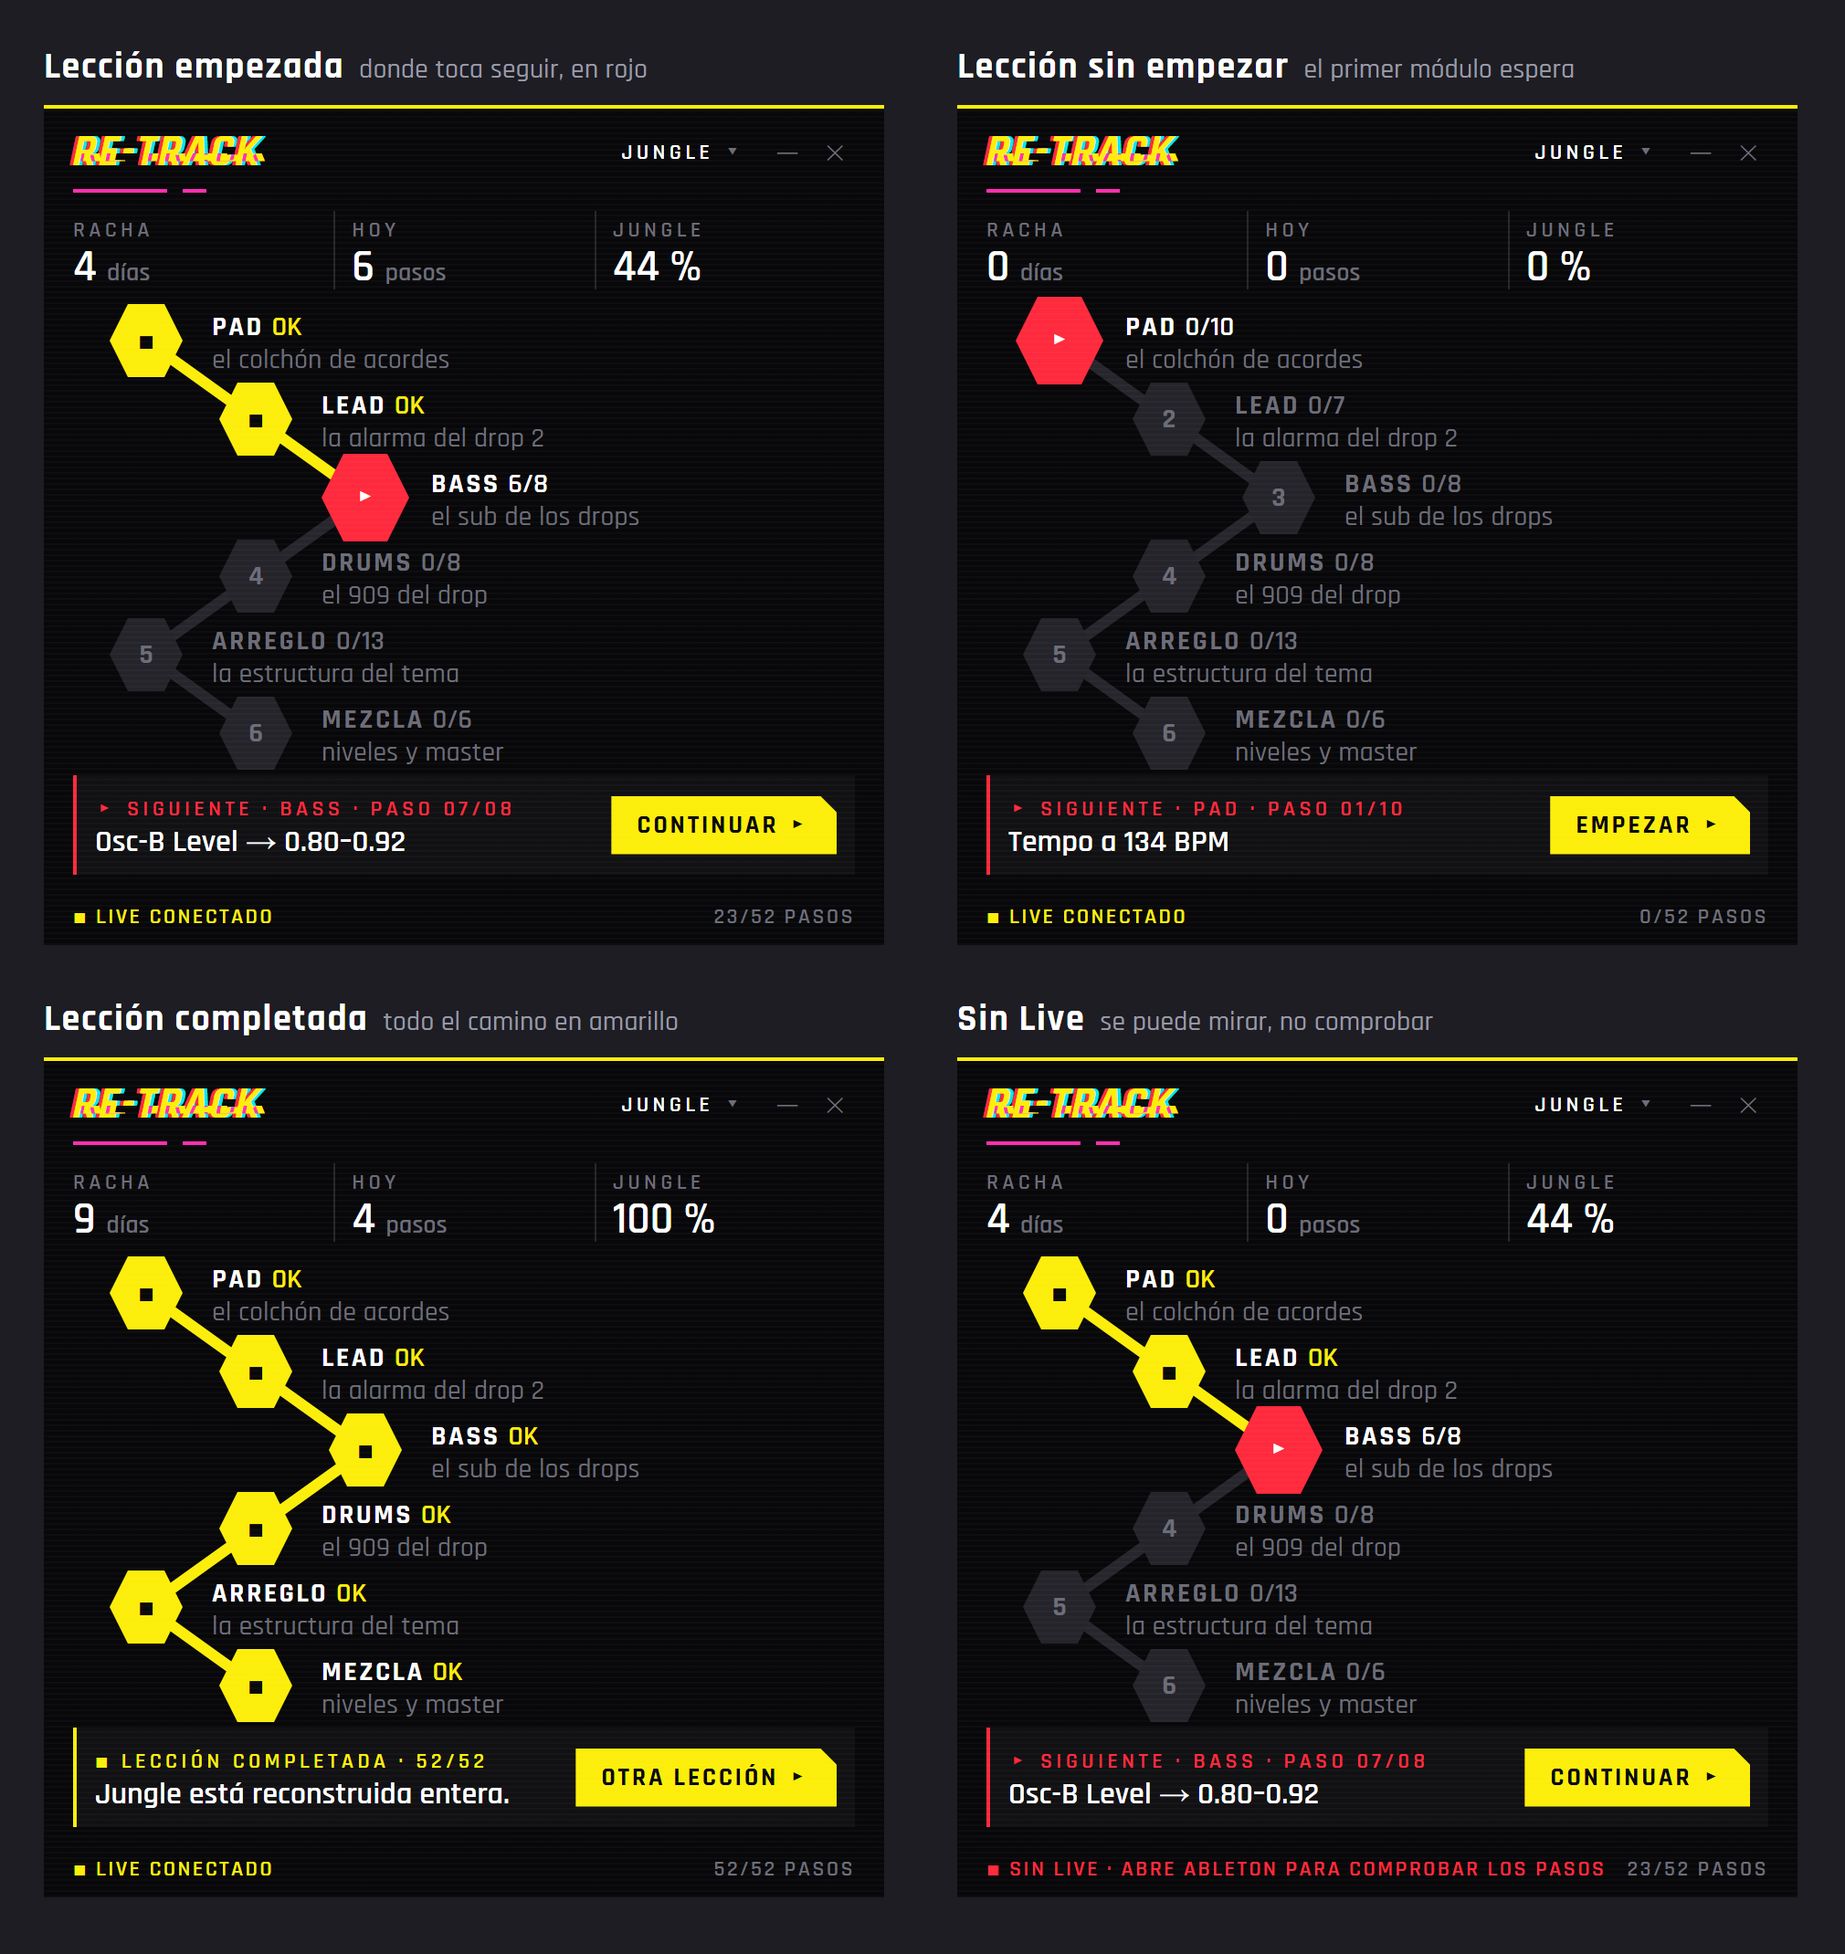
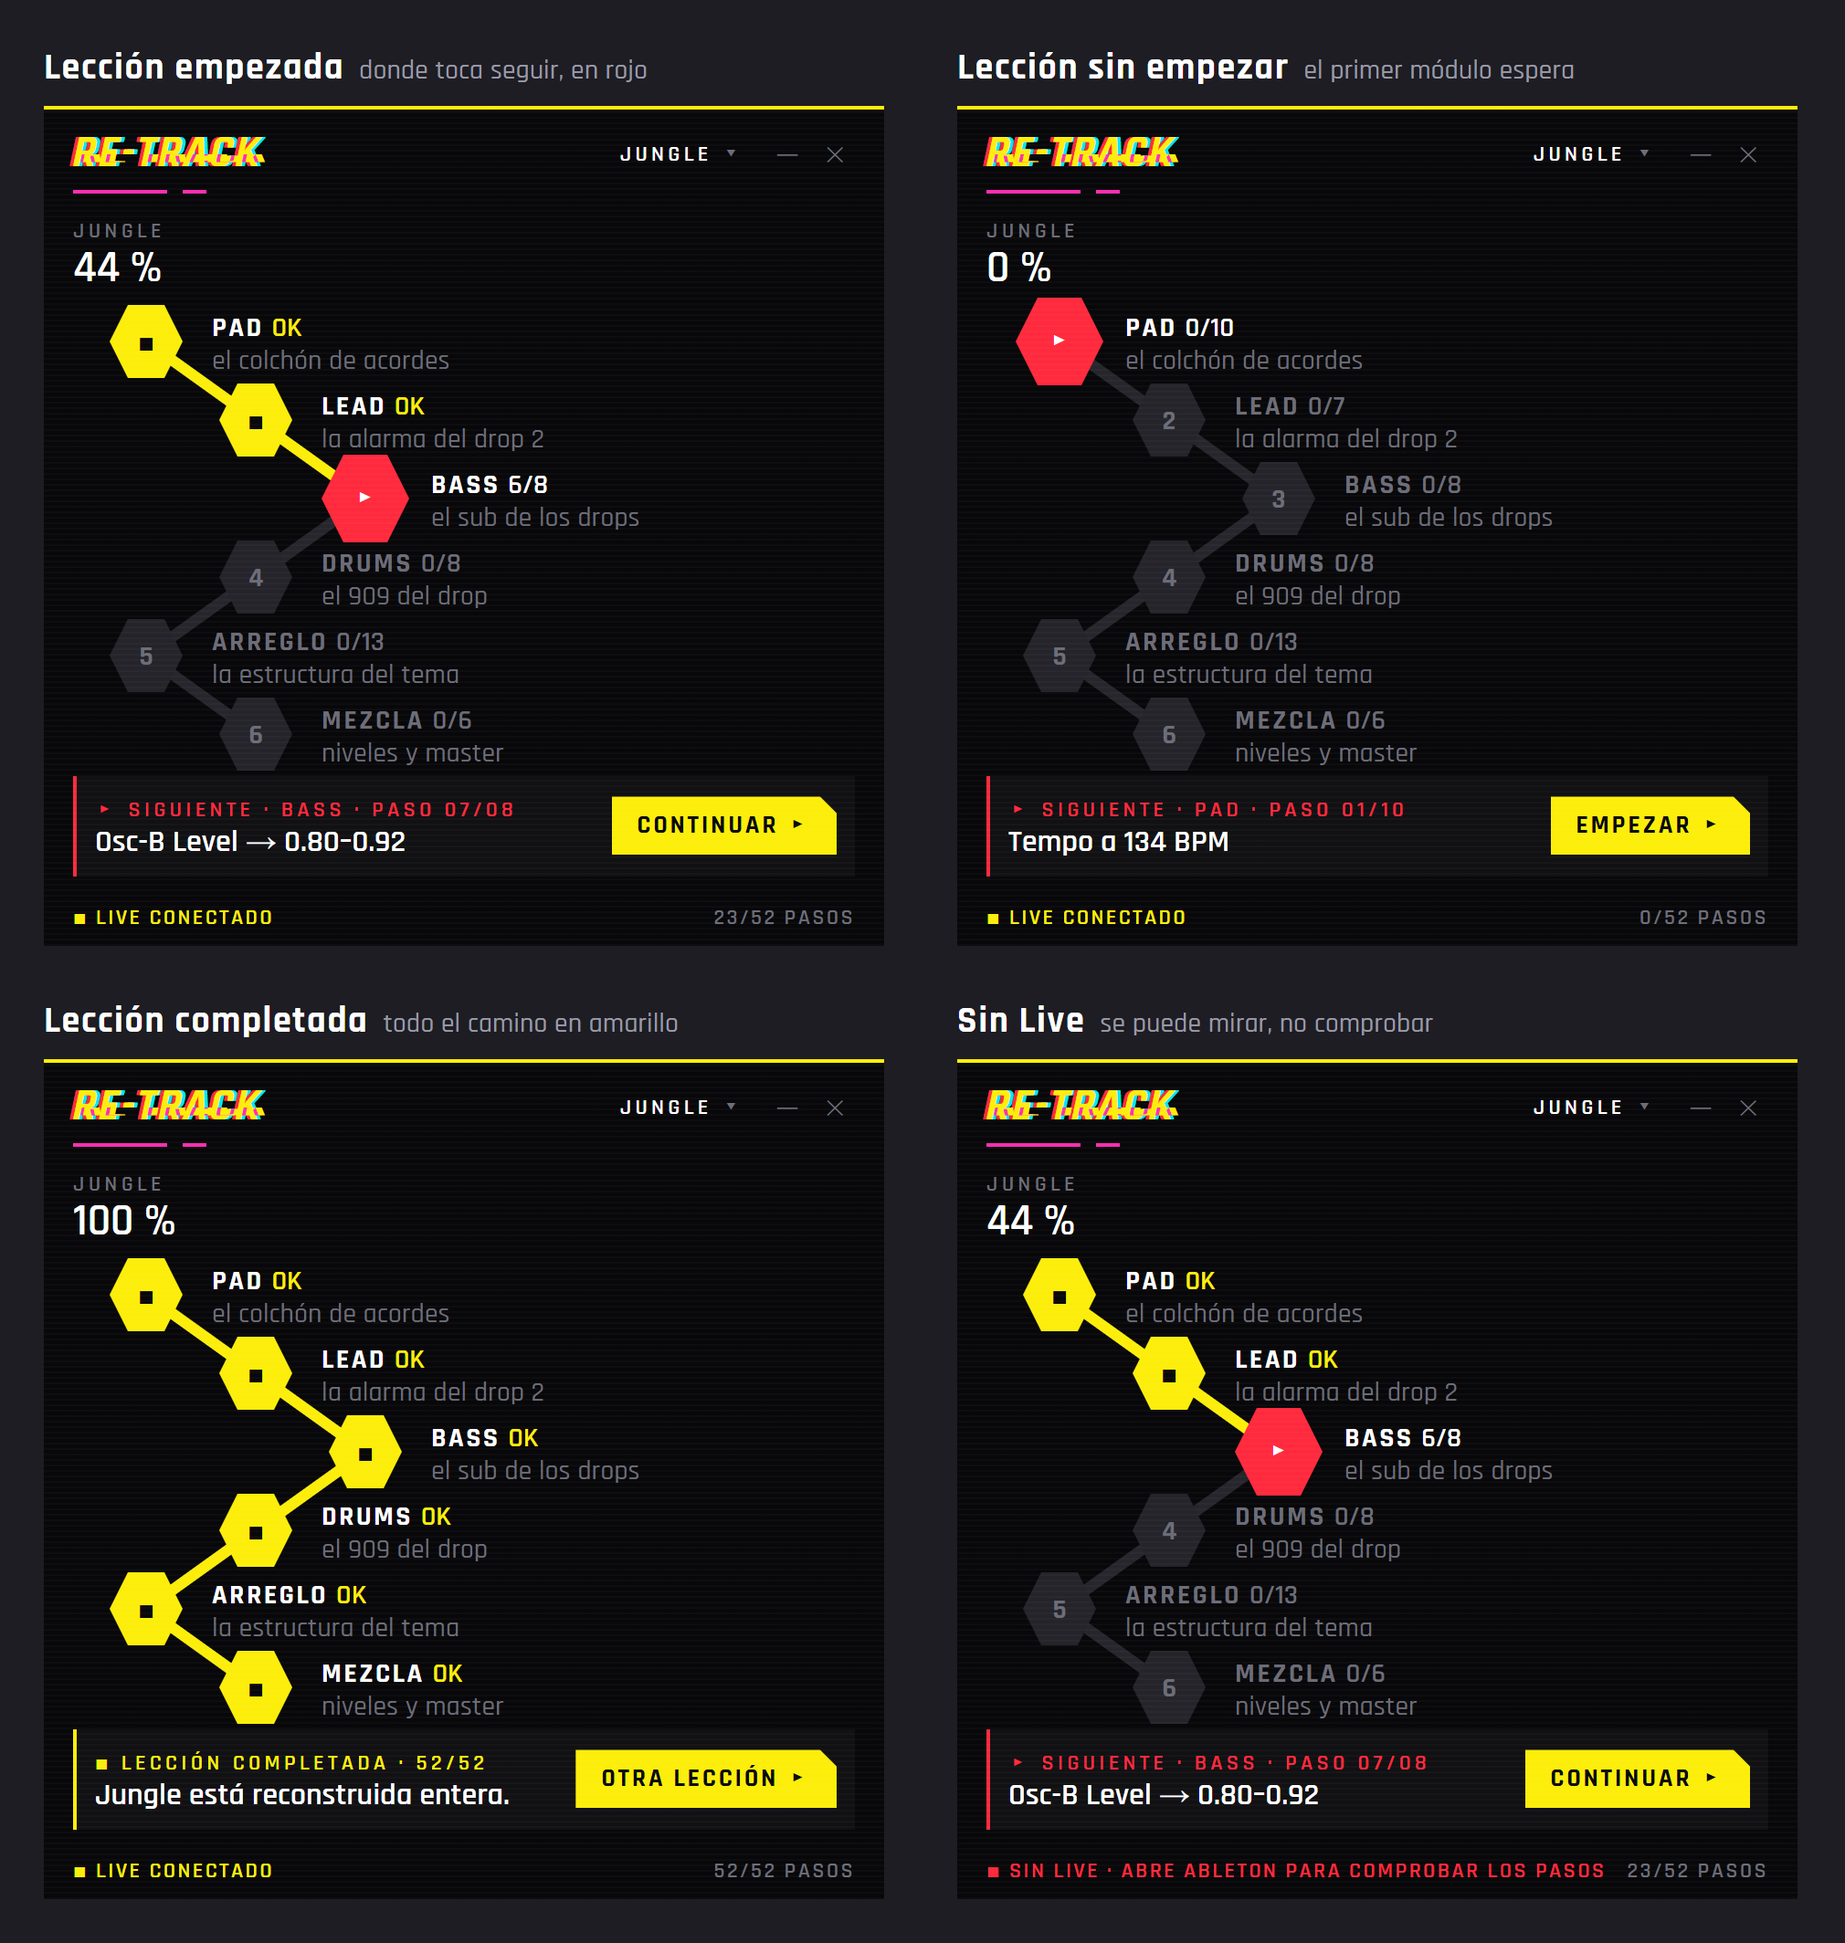
Lessons route: drop the streak and today readings (#48)

diff --git a/docs/design/lecciones/objetivo.html b/docs/design/lecciones/objetivo.html
@@ -4,8 +4,8 @@
 <meta charset="utf-8">
 <title>Re-track · pantalla de lecciones · aspecto objetivo (Ruta)</title>
 <!-- Aspecto objetivo de la pantalla de inicio: la propuesta B («Ruta») elegida el 2026-11-24, en sus cuatro estados.
-     Se copia fielmente al panel. Ventana real: 460×460. Módulos y pasos: lecciones/jungle.json; progreso, racha y
-     «hoy» son de muestra. Tokens: panel/index.html (ADR-013). -->
+     Se copia fielmente al panel. Ventana real: 460×460. Módulos y pasos: lecciones/jungle.json; el progreso es
+     de muestra. Tokens: panel/index.html (ADR-013). -->
 <style>
   @font-face { font-family: Rajdhani; font-weight: 500; src: url(../../../panel/fonts/Rajdhani-Medium.ttf); }
   @font-face { font-family: Rajdhani; font-weight: 600; src: url(../../../panel/fonts/Rajdhani-SemiBold.ttf); }
@@ -72,7 +72,7 @@ const P = [[40, 24], [100, 67], [160, 110], [100, 153], [40, 196], [100, 239]];
 const dos = (n) => String(n).padStart(2, "0");
 
 // `hechos`: pasos hechos por módulo. `que`: la instrucción corta del paso donde toca seguir.
-function pantalla({ hechos, racha, hoy, que, live = true }) {
+function pantalla({ hechos, que, live = true }) {
   const M = MODULOS.map(([n, t, total], i) => ({ n, t, total, hechos: hechos[i] }));
   const total = M.reduce((s, m) => s + m.total, 0), suma = M.reduce((s, m) => s + m.hechos, 0);
   const act = M.find((m) => m.hechos < m.total);
@@ -84,9 +84,7 @@ function pantalla({ hechos, racha, hoy, que, live = true }) {
         <strong>Jungle está reconstruida entera.</strong></div><span class="cta">Otra lección ▸</span></div>`;
   return `<div class="cab"><span class="logo">RE-TRACK</span><span class="ruta"><b>Jungle</b> ▾</span>
       <span class="vent">―</span><span class="vent">✕</span></div><div class="glitch"></div>
-    <div class="stats"><div><span class="et">Racha</span><b class="num">${racha} <small>${racha === 1 ? "día" : "días"}</small></b></div>
-      <div><span class="et">Hoy</span><b class="num">${hoy} <small>${hoy === 1 ? "paso" : "pasos"}</small></b></div>
-      <div><span class="et">Jungle</span><b class="num ${suma ? "am" : ""}">${Math.round((suma / total) * 100)} %</b></div></div>
+    <div class="stats"><div><span class="et">Jungle</span><b class="num ${suma ? "am" : ""}">${Math.round((suma / total) * 100)} %</b></div></div>
     <div class="mapa"><svg width="428" height="262">
       <polyline points="${P.map((p) => p.join(",")).join(" ")}" fill="none" stroke="#26262c" stroke-width="6"/>
       ${hasta > 1 ? `<polyline points="${P.slice(0, hasta).map((p) => p.join(",")).join(" ")}" fill="none" stroke="#fcee0a" stroke-width="6"/>` : ""}</svg>
@@ -102,10 +100,10 @@ function pantalla({ hechos, racha, hoy, que, live = true }) {
 const celda = (nombre, nota, estado) => `<div class="celda"><h2>${nombre}<small>${nota}</small></h2><div class="app">${pantalla(estado)}</div></div>`;
 
 document.body.innerHTML =
-  celda("Lección empezada", "donde toca seguir, en rojo", { hechos: [10, 7, 6, 0, 0, 0], racha: 4, hoy: 6, que: "Osc-B Level → 0.80–0.92" }) +
-  celda("Lección sin empezar", "el primer módulo espera", { hechos: [0, 0, 0, 0, 0, 0], racha: 0, hoy: 0, que: "Tempo a 134 BPM" }) +
-  celda("Lección completada", "todo el camino en amarillo", { hechos: [10, 7, 8, 8, 13, 6], racha: 9, hoy: 4, que: "" }) +
-  celda("Sin Live", "se puede mirar, no comprobar", { hechos: [10, 7, 6, 0, 0, 0], racha: 4, hoy: 0, que: "Osc-B Level → 0.80–0.92", live: false });
+  celda("Lección empezada", "donde toca seguir, en rojo", { hechos: [10, 7, 6, 0, 0, 0], que: "Osc-B Level → 0.80–0.92" }) +
+  celda("Lección sin empezar", "el primer módulo espera", { hechos: [0, 0, 0, 0, 0, 0], que: "Tempo a 134 BPM" }) +
+  celda("Lección completada", "todo el camino en amarillo", { hechos: [10, 7, 8, 8, 13, 6], que: "" }) +
+  celda("Sin Live", "se puede mirar, no comprobar", { hechos: [10, 7, 6, 0, 0, 0], que: "Osc-B Level → 0.80–0.92", live: false });
 </script>
 </body>
 </html>

diff --git a/stories/soporte.js b/stories/soporte.js
@@ -18,7 +18,6 @@ function falsoTauri(h) {
         if (comando === "comprobar" && h.error) throw h.error;
         if (comando === "lecciones") return ["jungle", "primera"];
         if (comando === "modulos") return h.modulos;
-        if (comando === "resumen") return { racha: h.racha, hoy: h.hoy };
         if (comando === "conectado") return !h.sinLive;
         if (comando === "pasos") return h.pasos[args.modulo];
         if (comando === "progreso") return { indice: args.modulo === h.abrir ? h.indice : (h.hechos[args.modulo] ?? 0) };
@@ -39,12 +38,12 @@ function falsoTauri(h) {
   });
 }
 
-// hechos, racha, hoy, sinLive: lo que enseña la pantalla de lecciones.
+// hechos, sinLive: lo que enseña la pantalla de lecciones.
 // pulsar: selector de un botón que se pulsa al final.
 // abrir: id del módulo en el que entra; indice: paso que enseña; comprobar: lo que contesta Live; error: lo que falla.
-export function panel({ hechos = {}, racha = 0, hoy = 0, sinLive = false, abrir, indice = 0, comprobar = {}, error, pulsar } = {}) {
+export function panel({ hechos = {}, sinLive = false, abrir, indice = 0, comprobar = {}, error, pulsar } = {}) {
   const pasos = Object.fromEntries(jungle.modulos.map((m) => [m.id, m.pasos]));
-  const h = { modulos: resumen(hechos), hechos, racha, hoy, sinLive, abrir, titulo: abrir && modulo(abrir).titulo, pasos, indice, comprobar, error, pulsar };
+  const h = { modulos: resumen(hechos), hechos, sinLive, abrir, titulo: abrir && modulo(abrir).titulo, pasos, indice, comprobar, error, pulsar };
   const marco = document.createElement("iframe");
   marco.title = "Panel de Re-track";
   marco.style.cssText = "width:460px;height:460px;border:0;display:block";

diff --git a/panel/panel.js b/panel/panel.js
@@ -462,22 +462,17 @@ function pintar() {
 // Pantalla de lecciones: la lección como un camino de módulos (FDR-001). Todo sale del JSON de la lección.
 const X_PARADA = [40, 100, 160, 100]; // el zigzag se repite cada cuatro módulos
 const paradaEn = (i) => [X_PARADA[i % 4], 24 + 43 * i];
-function lectura(id, numero, unidad) {
-  $(id).replaceChildren(String(numero), " ", crea("small", "", unidad));
-}
 
 async function verModulos(nombre) {
   leccion = nombre;
   modulo = null;
   selector.value = leccion;
-  const [modulos, { racha, hoy }] = await Promise.all([invoke("modulos", { leccion }), invoke("resumen")]);
+  const modulos = await invoke("modulos", { leccion });
   const total = modulos.reduce((s, m) => s + m.total, 0);
   const suma = modulos.reduce((s, m) => s + m.hechos, 0);
   const actual = modulos.find((m) => m.hechos < m.total);
   const nombreDe = (m) => m.titulo.split(":")[0];
 
-  lectura("racha", racha, racha === 1 ? "día" : "días");
-  lectura("hoy", hoy, hoy === 1 ? "paso" : "pasos");
   $("avance-de").textContent = leccion;
   $("avance").textContent = `${total ? Math.round((suma / total) * 100) : 0} %`;
   $("avance").className = suma ? "am" : "";

diff --git a/stories/modulos.stories.js b/stories/modulos.stories.js
@@ -4,10 +4,10 @@ import { panel } from "./soporte.js";
 export default { title: "Pantalla de lecciones" };
 
 const aMedias = { pad: 10, lead: 7, bass: 6 };
-export const Empezada = { name: "lección empezada", render: () => panel({ hechos: aMedias, racha: 4, hoy: 6 }) };
+export const Empezada = { name: "lección empezada", render: () => panel({ hechos: aMedias }) };
 export const SinEmpezar = { name: "lección sin empezar", render: () => panel() };
 export const Completada = {
   name: "lección completada",
-  render: () => panel({ hechos: { pad: 10, lead: 7, bass: 8, drums: 8, arreglo: 13, mezcla: 6 }, racha: 9, hoy: 4 }),
+  render: () => panel({ hechos: { pad: 10, lead: 7, bass: 8, drums: 8, arreglo: 13, mezcla: 6 } }),
 };
-export const SinLive = { name: "sin Live", render: () => panel({ hechos: aMedias, racha: 4, sinLive: true }) };
+export const SinLive = { name: "sin Live", render: () => panel({ hechos: aMedias, sinLive: true }) };

diff --git a/panel/panel.css b/panel/panel.css
@@ -307,8 +307,6 @@ body.inicio .elegir { display: block; }
 @keyframes eco { 0%, 39%, 45%, 100% { opacity: 0; } 40% { opacity: .9; transform: translate(-7px, 2px); } 42% { opacity: .7; transform: translate(5px, -1px); } 44% { opacity: .9; transform: translate(-3px, 0); } }
 @keyframes eco-b { 0%, 39%, 45%, 79%, 84%, 100% { opacity: 0; } 40% { opacity: .9; transform: translate(7px, -2px); } 42% { opacity: .7; transform: translate(-6px, 2px); } 80% { opacity: .9; transform: translate(6px, 1px); } 82% { opacity: .8; transform: translate(-5px, -1px); } }
 .stats b { animation: salto 5.5s steps(1) infinite; }
-.stats div:nth-child(2) b { animation-delay: -1.9s; }
-.stats div:nth-child(3) b { animation-delay: -3.7s; }
 .sig-caja { animation: salto 5.5s steps(1) -.55s infinite; }
 
 @media (prefers-reduced-motion: reduce) {

diff --git a/panel/index.html b/panel/index.html
@@ -18,8 +18,6 @@
 
   <div id="vista-modulos">
     <div class="stats">
-      <div><span class="et">Racha</span><b id="racha"></b></div>
-      <div><span class="et">Hoy</span><b id="hoy"></b></div>
       <div><span class="et" id="avance-de"></span><b id="avance"></b></div>
     </div>
     <div id="mapa"></div>

diff --git a/docs/fdr/FDR-001-pantalla-de-lecciones.md b/docs/fdr/FDR-001-pantalla-de-lecciones.md
@@ -11,14 +11,13 @@ Es lo primero que se ve al abrir Re-track: la lección en curso dibujada como un
 
 - Cada módulo de la lección es un nodo del camino, en el orden del fichero de la lección. Un nodo hecho es amarillo con ■ y dice «OK»; el nodo donde toca seguir es rojo, más grande, con ▸; los pendientes llevan su número y van apagados. Junto a cada nodo: nombre, pasos hechos/total y la frase del módulo.
 - El tramo de camino ya recorrido se pinta en amarillo, hasta el módulo en curso.
-- Arriba, tres lecturas: racha (días seguidos con al menos un paso superado), pasos superados hoy y porcentaje de la lección.
+- Arriba, una lectura: el porcentaje de la lección.
 - Abajo, una caja dice el siguiente paso (módulo, número de paso e instrucción corta) con el botón «Continuar», que abre ese paso. En una lección sin empezar el botón dice «Empezar».
 - Pulsar cualquier nodo abre ese módulo en su primer paso sin hacer. Ningún módulo está bloqueado.
 - Lección completada: todo el camino en amarillo y la caja pasa a «Lección completada» con el botón «Otra lección».
 - Sin Live: la pantalla se ve igual y se puede navegar; el pie avisa en rojo de que hay que abrir Ableton para comprobar los pasos.
 - El nombre de la lección en la cabecera abre el desplegable de lecciones (la lista de lecciones está sin diseñar).
 - Con más de seis módulos el camino sigue hacia abajo y se desplaza en vertical.
-- Reiniciar un módulo borra también cuándo se superaron sus pasos: puede bajar «hoy» y la racha.
 
 ## Design Decisions
 
@@ -34,11 +33,11 @@ Es lo primero que se ve al abrir Re-track: la lección en curso dibujada como un
 **Why:** Los módulos son piezas independientes que se podrán combinar entre canciones (visión de `docs/DESIGN.md`); bloquearlos lo contradice.
 **Tradeoff:** Se pierde la sensación de «desbloquear» del modelo Duolingo.
 
-### 3. La racha cuenta días, no lecciones
+### 3. Sin racha ni «hoy»
 
-**Decision:** La racha y «hoy» son de toda la app, no de cada lección.
-**Why:** Miden el hábito de sentarse a producir; cambiar de canción no debe ponerlos a cero.
-**Tradeoff:** Hace falta guardar cuándo se superó cada paso; los pasos hechos antes de este cambio no cuentan para la racha.
+**Decision:** La pantalla no enseña la racha ni los pasos de hoy (#48); solo el porcentaje de la lección.
+**Why:** Matthieu, 2026-11-24: no se entendían y sobraban.
+**Tradeoff:** El día en que se superó cada paso se sigue guardando, pero ninguna pantalla lo usa.
 
 ### 4. Señal con símbolo
 

diff --git a/docs/DESIGN.md b/docs/DESIGN.md
@@ -56,8 +56,6 @@ Cada pantalla nueva pasa por cuatro propuestas antes de construirse (`CLAUDE.md`
 Decididas con la pantalla de lecciones (FDR-001):
 
 - **Progreso**: pasos superados sobre el total, por módulo y por lección. Un paso solo se supera cuando Live lo confirma.
-- **Racha**: días seguidos con al menos un paso superado, de toda la app.
-- **Hoy**: pasos superados hoy.
 - **Orden libre**: el camino sugiere un orden; ningún módulo se bloquea.
 
 Por decidir, cada una con sus propuestas a la vista:
